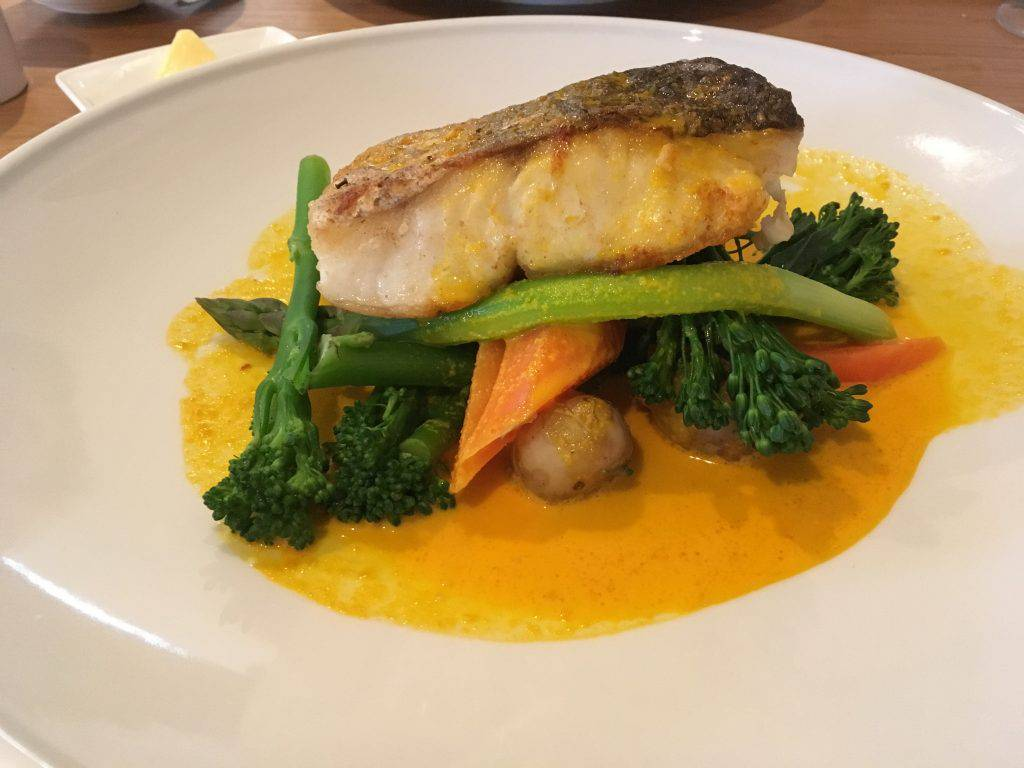
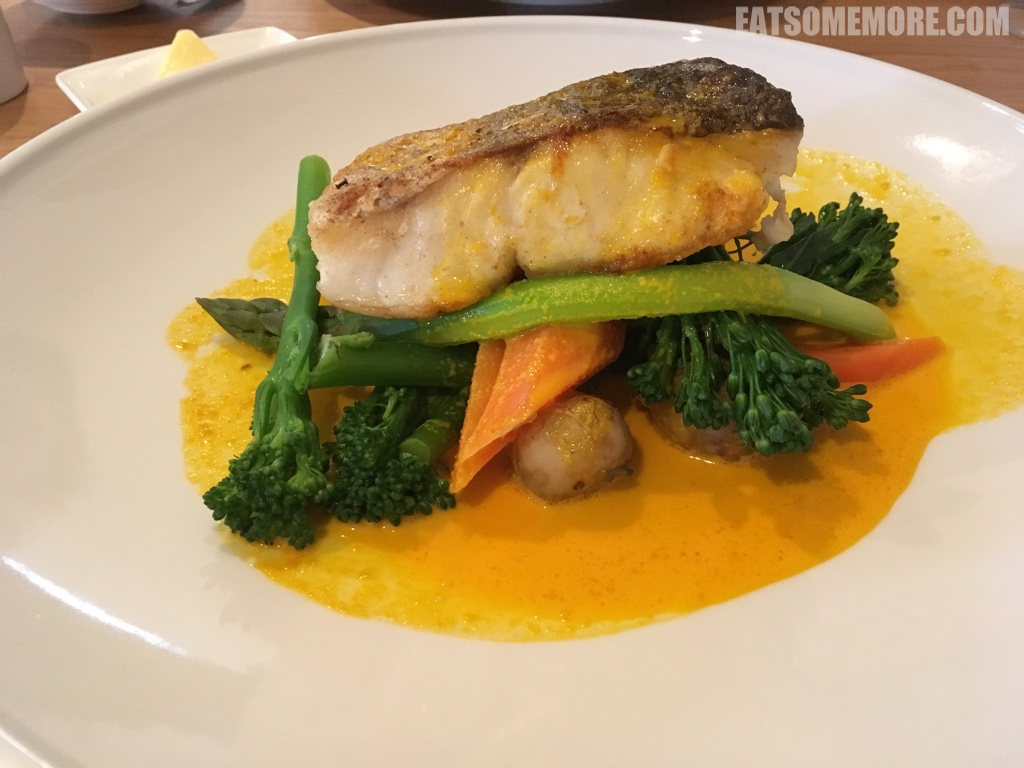
peak food

Changed region(s): [[0.7188, 0.0, 1.0, 0.0625]]

diff --git a/posts/uk-food-samuel-fox.md b/posts/uk-food-samuel-fox.md
@@ -1,0 +1,35 @@
+---
+title: "Samuel Fox Country Inn"
+author: "九姨"
+date: "2022-06-05"
+categories: "美食"
+tags: "英国,英格兰,推荐"
+coverImage: "images/IMG_20170414_193433.jpg"
+---
+
+>16-19，米其林指南推荐，The Jerusalem Artichoke soup is absolutely amazing, and loved the braised beef cheek. The soup is hearty and tasty. The beef is soft, tender but full of flavours.
+
+![Samuel Fox Country Inn](images/IMG_20170414_183243.jpg)
+
+>However, the service was disappointing, The waitress erroneously gave us the bread for other customers, and then directly took it from our table to another table.
+
+![Samuel Fox Country Inn](images/IMG_20170414_184418.jpg)
+
+>pork and duck terrine with pistachios and beetroot salad - I ordered pork and duck terrine as starter, however was served two mains (pork and duck) - later turned out to be ordered by other customers. We had to ask for the bill twice as we were forgotten for half an hour after first asking for the bill.
+
+![Samuel Fox Country Inn](images/IMG_20170414_185500.jpg)
+
+>好多朋友包括我本人都总说英国无美食。然而渐渐也发现英国美食值得被正名。今年春天在德文郡遇见的一道唤醒味蕾的前菜是这道菊芋浓汤。菊芋对我来说很是陌生，又名洋姜，甘凉清热，熬煮成汤后分外香甜。更棒的是汤里还有西班牙红椒肠的咸鲜，生鸡蛋黄的香滑，黄油烤面包丁的酥脆，以及细葱时蔬的清香。
+
+![Samuel Fox Country Inn](images/IMG_20170414_185450.jpg)
+
+>大家不难发现英国乡村牛羊遍野。而我最近发现，英国有许多精致的餐厅都藏身于这些农场当中。由于原料新鲜、产地直供，菜品的水准都比较有保障。例如这一道啤酒炖牛脸肉佐奶油土豆泥、胡萝卜、蘑菇及熊葱。牛脸肉较牛的其他部位纤维更细，加啤酒炖后香酥软烂。土豆泥奶香十足。真真一道令人满足的乡村美味。我只能心悦诚服地说，英国人好会做菜！
+
+![Samuel Fox Country Inn](images/IMG_20170414_193433.jpg)
+
+
+网站：[https://www.samuelfox.co.uk/](https://www.samuelfox.co.uk/)
+
+地址：Stretfield Road, Bradwell, Hope Valley, Derbyshire, S33 9JT
+
+![Samuel Fox Country Inn](images/samuelfox.jpg)

diff --git a/posts/uk-food-woodspeen.md b/posts/uk-food-woodspeen.md
@@ -1,0 +1,39 @@
+---
+title: "The Woodspeen"
+author: "九姨"
+date: "2022-05-22"
+categories: "游记"
+tags: "英国,英格兰,推荐,米其林"
+coverImage: "images/IMG_20170901.jpg"
+---
+
+>The restaurant ground was lovely. 2016-19
+
+![The Woodspeen](images/IMG_20170901_195411.jpg)
+
+>三文鱼
+
+![The Woodspeen](images/IMG_20170901_195957.jpg)
+
+>龙虾钳
+
+![The Woodspeen](images/IMG_20170901_202416.jpg)
+
+>餐馆之众竞相树美味其帜，总有新奇的味道、特别的搭配、奇异的质地，而有一类是赢在了起跑线上，并令人心服口服——食材质优。这项特质对于海鲜来说尤为重要。例如扇贝扒鸡中的这两枚扇贝，体积硕大如牛眼，香脆滑嫩弹鲜甜。再见调味料！However the chicken was very over cooked, so could be better.
+
+![The Woodspeen](images/IMG_20170901.jpg)
+
+>lobster and chicken confit 
+
+![The Woodspeen](images/IMG_20170901_202526.jpg)
+
+>The lobster salad was amazing, with soft boild quail eggs.
+
+![The Woodspeen](images/IMG_20170901_202537.jpg)
+
+
+网站：[https://www.thewoodspeen.com/](https://www.thewoodspeen.com/)
+
+地址：Lambourn Road, Woodspeen, Newbury, RG20 8BN
+
+![The Woodspeen](images/woodspeen.jpg)

diff --git a/posts/uk-food-fischer.md b/posts/uk-food-fischer.md
@@ -1,0 +1,43 @@
+---
+title: "Fischer's at Baslow Hall"
+author: "九姨"
+date: "2022-06-12"
+categories: "美食"
+tags: "英国,英格兰,推荐"
+coverImage: "images/IMG_20170417_122551.jpg"
+---
+
+>16-19，米其林指南推荐，The restaurant has a lovely and elegant environment. Dishes are delicate and flavours are well-balanced.
+
+![Fischer's at Baslow Hall](images/IMG_20170417_121933.jpg)
+
+>
+
+![Fischer's at Baslow Hall](images/IMG_20170417_133716.jpg)
+
+>
+
+![Fischer's at Baslow Hall](images/IMG_20170417_121518.jpg)
+
+>
+
+![Fischer's at Baslow Hall](images/IMG_20170417_122551.jpg)
+
+>
+
+![Fischer's at Baslow Hall](images/IMG_20170417_122640.jpg)
+
+>
+
+![Fischer's at Baslow Hall](images/IMG_20170417_124055.jpg)
+
+>
+
+![Fischer's at Baslow Hall](images/IMG_20170417_125911.jpg)
+
+
+网站：[https://www.fischers-baslowhall.co.uk/](https://www.fischers-baslowhall.co.uk/)
+
+地址：Calver Road, Baslow, Derbyshire, DE45 1RR
+
+![Fischer's at Baslow Hall](images/fischer.jpg)

diff --git a/posts/uk-food-prince-of-wales.md b/posts/uk-food-prince-of-wales.md
@@ -1,0 +1,31 @@
+---
+title: "Nice country restaurant The Prince of Wales"
+author: "九姨"
+date: "2022-05-29"
+categories: "美食"
+tags: "英国,英格兰,精选"
+coverImage: "images/IMG_20170413_134915.jpg"
+---
+
+>16-19，米其林指南推荐，My favourite is the honey roasted ham hock. 
+
+![The Prince of Wales](images/IMG_20170413_134928.jpg)
+
+>东坡肉五花肉吃得多，脆皮五花肉却是第一次遇见。这种酥脆与软糯的结合，加上油花的甘甜、瘦肉的鲜香，完完全全满足了肉食者的最高追求。
+
+![The Prince of Wales](images/IMG_20170413_134915.jpg)
+
+>
+
+![The Prince of Wales](images/IMG_20170413_141248.jpg)
+
+>The food is solid. 
+
+![The Prince of Wales](images/IMG_20170413_141309.jpg)
+
+
+网站：[https://princeofwalesbaslow.co.uk/](https://princeofwalesbaslow.co.uk/)
+
+地址：Church Lane, Baslow, Bakewell, DE45 1RY
+
+![The Prince of Wales](images/princewales.jpg)

diff --git a/posts/uk-food-milestone.md b/posts/uk-food-milestone.md
@@ -1,0 +1,27 @@
+---
+title: "The Milestone"
+author: "九姨"
+date: "2022-06-26"
+categories: "美食"
+tags: "英国,英格兰,推荐"
+coverImage: "images/IMG_20170416_143257.jpg"
+---
+
+>
+
+![The Milestone](images/IMG_20170416_141503.jpg)
+
+>周日烤肉是英国的传统美食，由烤牛肉切片、烤西兰花、烤土豆、烤约克郡布丁配上肉汁而成。烤牛肉切片柔软鲜香肉汁四溢，西兰花饱有原味，土豆香甜，约克郡布丁的口感像极了咱们中国的油条。周日的饕餮享受。
+
+![The Milestone](images/IMG_20170416_143257.jpg)
+
+>
+
+![The Milestone](images/IMG_20170416_150521.jpg)
+
+
+网站：[https://the-milestone.co.uk/](https://the-milestone.co.uk/)
+
+地址：84 GREEN LANE, KELHAM ISLAND, SHEFFIELD, S3 8SE
+
+![The Milestone](images/milestone.jpg)

diff --git a/posts/usa-2020-florida-2.md b/posts/usa-2020-florida-2.md
@@ -35,7 +35,7 @@ coverImage: "images/IMG_20200127_160032.jpg"
 
 ![乔纳森迪金森州立公园](images/IMG_20200127_123002.jpg)
 
->公园附近的小酒馆 Brass Ring Pub 连续获得了四年猫途鹰 Tripadviser 网站的卓越奖，在北棕榈滩所有的餐厅当中排名第二。小酒馆内环绕播放着各类体育赛事，其间也有一些诙谐可爱的画作，例如套着救生圈正在钓小龙虾的鲨鱼。
+>公园附近的小酒馆 Brass Ring Pub 连续获得了四年猫途鹰 Tripadvisor 网站的卓越奖，在北棕榈滩所有的餐厅当中排名第二。小酒馆内环绕播放着各类体育赛事，其间也有一些诙谐可爱的画作，例如套着救生圈正在钓小龙虾的鲨鱼。
 
 ![Brass Ring Pub](images/IMG_20200127_144731.jpg)
 

diff --git a/posts/uk-food-george-alstonefield.md b/posts/uk-food-george-alstonefield.md
@@ -1,0 +1,31 @@
+---
+title: "The George at Alstonefield"
+author: "九姨"
+date: "2022-06-19"
+categories: "美食"
+tags: "英国,英格兰,推荐"
+coverImage: "images/IMG_20170415_125029.jpg"
+---
+
+>16-19
+
+![The George at Alstonefield](images/IMG_20170415_130301.jpg)
+
+>
+
+![The George at Alstonefield](images/IMG_20170415_125003.jpg)
+
+>
+
+![The George at Alstonefield](images/IMG_20170415_124620.jpg)
+
+>
+
+![The George at Alstonefield](images/IMG_20170415_125029.jpg)
+
+
+网站：[https://thegeorgeatalstonefield.com/](https://thegeorgeatalstonefield.com/)
+
+地址：Nr Ashbourne, Derbyshire, DE6 2FX
+
+![The George at Alstonefield](images/georgeatalstonefield.jpg)
